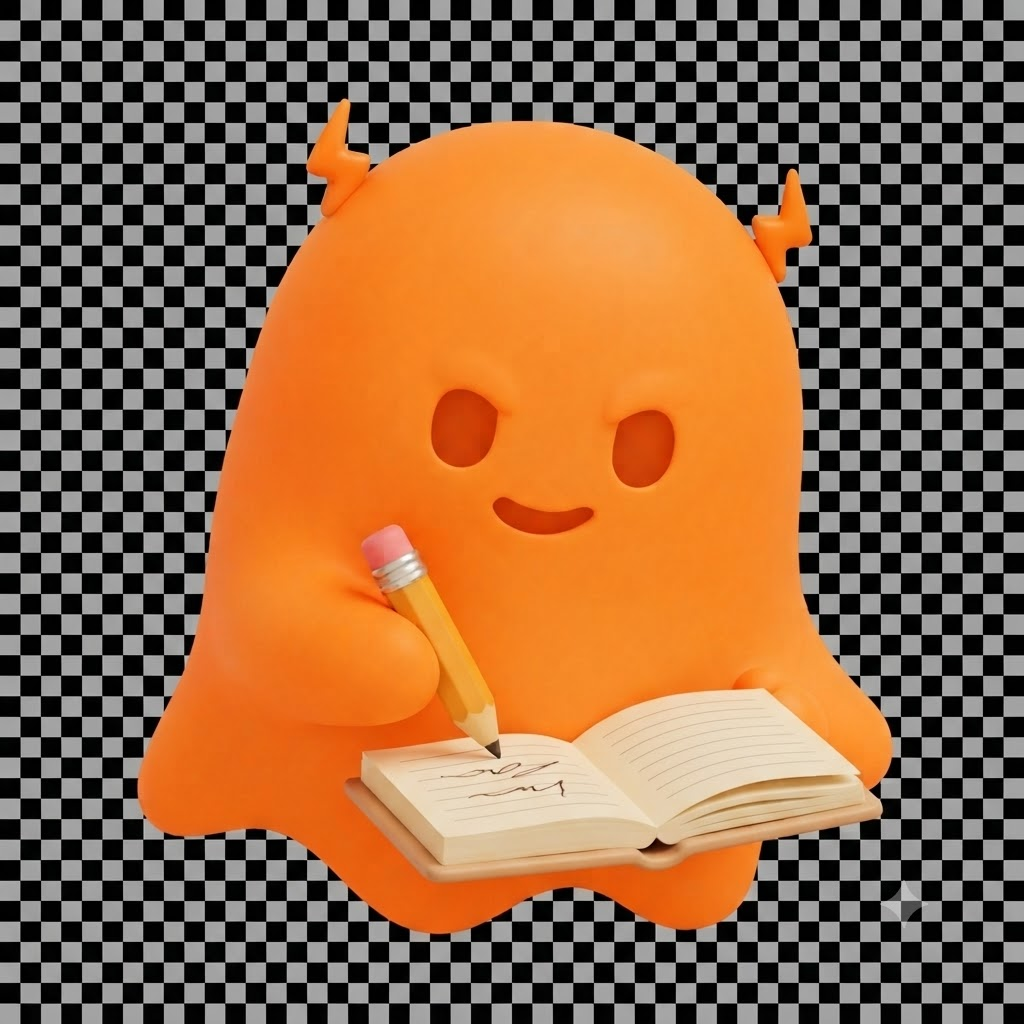
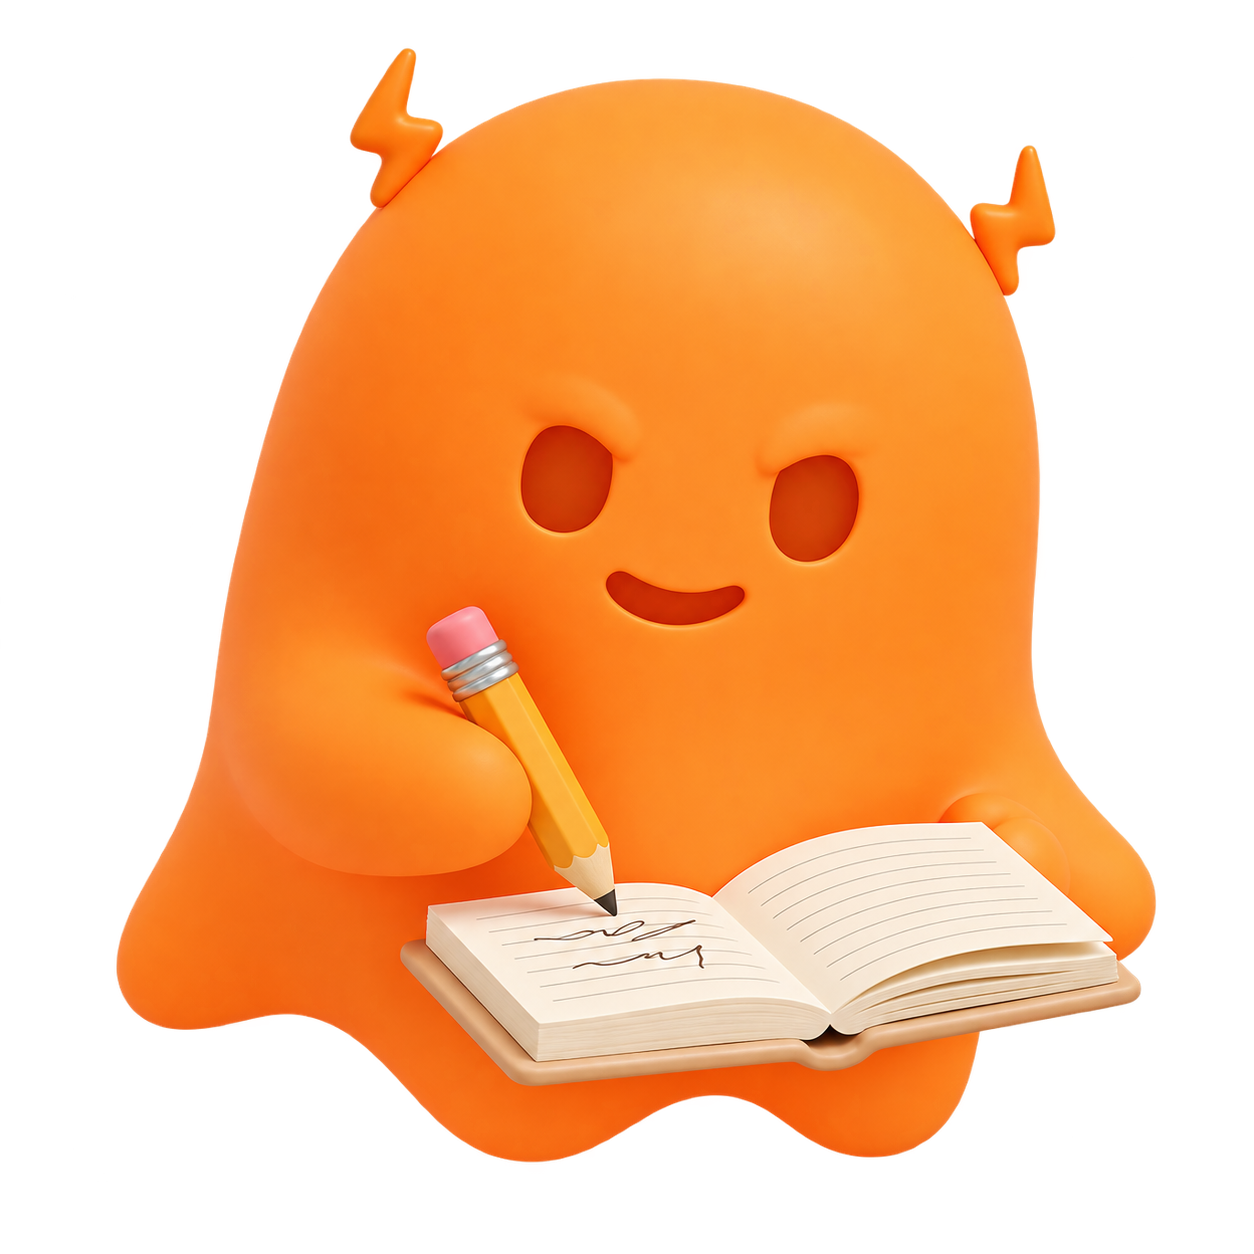
feat(frontend): 자료 삭제 버튼과 캐릭터·맵 2차 다듬기
- 업로드 화면: 올린 강의자료 개별 삭제(X) 버튼
- 말풍선 축소, 캐릭터 전 화면 확대, 랜딩 배경 원·캐릭터 확대,
  말풍선을 캐릭터 머리 위로
- 로딩 화면 캐릭터를 작업 중(progress) 이미지로 통일·확대
- progress/sad 캐릭터를 새 투명 배경 버전으로 교체
- 맵: 평소엔 숫자·상자만, STEP 제목 라벨은 호버 시에만 표시,
  진행 중이 아닌 원은 축소(52/48px)

diff --git a/frontend/app/curriculum/page.tsx b/frontend/app/curriculum/page.tsx
@@ -591,7 +591,7 @@ function MapCanvas({ steps, completedStepIds, currentStep, weakSteps, goalReache
             <div className="font-jua whitespace-nowrap rounded-[12px_12px_12px_3px] border border-[#FFE0C4] bg-white px-[13px] py-2 text-[13.5px] shadow-[0_4px_12px_rgba(0,0,0,.07)]">
               {characterMessage}
             </div>
-            <Ghost width={62} mood={goalReached ? "happy" : "default"} className="animate-bob drop-shadow-[0_8px_12px_rgba(255,122,0,.3)]" />
+            <Ghost width={78} mood={goalReached ? "happy" : "default"} className="animate-bob drop-shadow-[0_8px_12px_rgba(255,122,0,.3)]" />
           </div>
         </div>
       )}
@@ -627,17 +627,18 @@ function StepNode({
   isWeak: boolean;
   onNavigate: () => void;
 }) {
-  const size = isCurrent ? 84 : isDone ? 70 : 66;
+  // 지금 할 STEP 만 크게. 나머지는 길 위의 이정표 정도로 작게 둔다.
+  const size = isCurrent ? 84 : isDone ? 52 : 48;
   const left = x - size / 2;
   const top = y - size / 2 + PAD_TOP;
   // 라벨은 위·아래를 번갈아 놓아 촘촘한 구간에서 서로 겹치지 않게 한다.
-  const labelTop = labelAbove ? y - size / 2 - 58 + PAD_TOP : y + size / 2 + 10 + PAD_TOP;
+  const labelTop = labelAbove ? y - size / 2 - 56 + PAD_TOP : y + size / 2 + 8 + PAD_TOP;
 
   const weakRing = isWeak ? "ring-2 ring-amber-400 ring-offset-2" : "";
   const numberClass = "font-jua flex size-full items-center justify-center leading-none";
 
   return (
-    <div>
+    <div className="group">
       {isCurrent ? (
         <div className="absolute" style={{ left, top, width: size, height: size }}>
           <div className="absolute inset-[-10px] animate-pulse-ring rounded-full bg-[#FF7A00]" />
@@ -658,7 +659,7 @@ function StepNode({
           className={`absolute rounded-full ${weakRing} ${
             isDone
               ? "clay-done cursor-pointer"
-              : `clay-circle text-[21px] ${isLocked ? "cursor-default text-[#b9b9b9]" : "cursor-pointer text-[#8a6a4d]"}`
+              : `clay-circle text-[17px] ${isLocked ? "cursor-default text-[#b9b9b9]" : "cursor-pointer text-[#8a6a4d]"}`
           }`}
         >
           {isDone ? (
@@ -669,8 +670,9 @@ function StepNode({
         </button>
       )}
 
+      {/* 라벨은 평소에 숨긴다. 길에는 숫자와 상자만 보이고, 자세한 제목은 올려다볼 때만. */}
       <div
-        className={`absolute z-20 w-[150px] text-center text-[12.5px] ${
+        className={`pointer-events-none absolute z-20 w-[150px] text-center text-[12.5px] opacity-0 transition-opacity duration-150 group-hover:opacity-100 ${
           isCurrent ? "font-bold text-[#E85D00]" : isDone ? "font-bold text-[#888]" : "text-[#888]"
         }`}
         style={{ left: x, top: labelTop, transform: "translate(-50%, 0)" }}

diff --git a/frontend/app/upload/page.tsx b/frontend/app/upload/page.tsx
@@ -8,6 +8,7 @@ import { useSessionStore } from "@/app/_components/session-store";
 import { useExamStore } from "@/app/_components/store";
 import { useHydrated } from "@/app/_components/use-hydrated";
 import {
+  deleteDocument,
   listDocuments,
   parseDocuments,
   toMessage,
@@ -88,6 +89,21 @@ export default function UploadPage() {
       active = false;
     };
   }, [sessionCode]);
+
+  /** 올린 자료를 지운다. 목록은 서버 기준으로 다시 읽는다. */
+  const removeDocument = async (documentId: string) => {
+    if (!sessionCode || busy) return;
+    setBusy(true);
+    setError(null);
+    try {
+      await deleteDocument(sessionCode, documentId);
+      setDocuments(await listDocuments(sessionCode));
+    } catch (e) {
+      setError(toMessage(e));
+    } finally {
+      setBusy(false);
+    }
+  };
 
   const selectFiles = async (fileList: FileList | null) => {
     const files = Array.from(fileList ?? []);
@@ -232,6 +248,17 @@ export default function UploadPage() {
                       {doc.characterCount ? ` · ${doc.characterCount.toLocaleString()}자` : ""}
                     </div>
                   </div>
+                  <button
+                    type="button"
+                    disabled={busy}
+                    onClick={() => void removeDocument(doc.id)}
+                    aria-label={`${doc.originalFileName} 삭제`}
+                    className="flex size-8 shrink-0 cursor-pointer items-center justify-center rounded-full border border-transparent text-[#c9a888] transition-colors hover:border-[#F5C2C7] hover:bg-[#FDECEE] hover:text-[#B02A37] disabled:cursor-not-allowed disabled:opacity-40"
+                  >
+                    <svg width="13" height="13" viewBox="0 0 24 24" fill="none" aria-hidden="true">
+                      <path d="M5 5l14 14M19 5 5 19" stroke="currentColor" strokeWidth="2.6" strokeLinecap="round" />
+                    </svg>
+                  </button>
                 </div>
               ))}
             </div>
@@ -328,7 +355,7 @@ export default function UploadPage() {
                 목차가 있는 자료면 더 정확해!<br />
                 <span className="text-[#E85D00]">여러 개를 한 번에</span> 올려도 돼.
               </SpeechBubble>
-              <Ghost width={72} mood="plain" className="animate-bob-small" />
+              <Ghost width={96} className="animate-bob-small" />
             </div>
             <div className="rounded-[18px] border border-[#eee] p-5">
               <h2 className="mb-3 text-[13.5px] font-bold">분석할 내용</h2>

diff --git a/frontend/app/quiz/[stepId]/page.tsx b/frontend/app/quiz/[stepId]/page.tsx
@@ -215,7 +215,7 @@ function QuizView({
 
           {answered && (
             <div className="mt-6 flex flex-col items-start gap-4 border-t border-[#eee] pt-6 sm:flex-row sm:items-center">
-              <Ghost width={44} mood={result.correct ? "smile" : "sad"} className="animate-bob-small shrink-0" />
+              <Ghost width={60} mood={result.correct ? "smile" : "sad"} className="animate-bob-small shrink-0" />
               <div className="flex-1 text-[14.5px] leading-[1.7]">
                 {result.correct
                   ? `정답! ${result.explanation}`
@@ -261,7 +261,7 @@ function QuizLoading({ generating = false }: { generating?: boolean }) {
 
         {generating && (
           <div className="absolute inset-0 flex flex-col items-center justify-center gap-4">
-            <Ghost width={104} mood="progress" className="animate-bob" />
+            <Ghost width={140} mood="progress" className="animate-bob" />
             <p className="rounded-full border border-[#FFE0C4] bg-white/90 px-5 py-2 text-sm font-bold text-[#E85D00] shadow-[0_6px_18px_rgba(255,122,0,.15)]">
               자료를 보고 문제를 만드는 중… 30초쯤 걸려요
             </p>
@@ -278,7 +278,7 @@ function QuizError({ stepId, message, onRetry }: { stepId: number; message: stri
     <div className="min-h-screen bg-white text-[#222]">
       <AppHeader />
       <main className="mx-auto max-w-[720px] px-6 py-24 text-center">
-        <Ghost width={70} mood="worried" className="animate-bob-small mx-auto mb-5" />
+        <Ghost width={92} mood="sad" className="animate-bob-small mx-auto mb-5" />
         <h1 className="font-jua mb-3 text-3xl">퀴즈를 준비하지 못했어요</h1>
         <p className="mb-8 text-[14.5px] leading-7 text-[#888]">{message}</p>
         <div className="flex flex-wrap justify-center gap-3">
@@ -296,7 +296,7 @@ function EmptyQuiz({ stepId }: { stepId: number }) {
     <div className="min-h-screen bg-white text-[#222]">
       <AppHeader />
       <main className="mx-auto max-w-[720px] px-6 py-24 text-center">
-        <Ghost width={70} mood="worried" className="animate-bob-small mx-auto mb-5" />
+        <Ghost width={92} className="animate-bob-small mx-auto mb-5" />
         <h1 className="font-jua mb-3 text-3xl">이 STEP은 퀴즈가 없어요</h1>
         <p className="mb-8 text-[14.5px] leading-7 text-[#888]">복습 단계이거나 아직 학습을 마치지 않은 단계입니다.</p>
         <PrimaryButton onClick={() => router.push(`/study/${stepId}`)}>학습 화면으로 돌아가기</PrimaryButton>

diff --git a/frontend/app/quiz-result/[stepId]/page.tsx b/frontend/app/quiz-result/[stepId]/page.tsx
@@ -95,7 +95,7 @@ export default function QuizResultPage() {
       <div className="min-h-screen bg-white text-[#222]">
         <AppHeader />
         <main className="mx-auto max-w-[720px] px-6 py-24 text-center">
-          <Ghost width={70} mood="sad" className="animate-bob-small mx-auto mb-5" />
+          <Ghost width={92} mood="sad" className="animate-bob-small mx-auto mb-5" />
           <h1 className="font-jua mb-3 text-3xl">결과를 불러오지 못했어요</h1>
           <p className="mb-8 text-[14.5px] leading-7 text-[#888]">{error}</p>
           <PrimaryButton onClick={() => router.push("/curriculum")}>커리큘럼으로 돌아가기</PrimaryButton>
@@ -124,7 +124,7 @@ export default function QuizResultPage() {
       <AppHeader />
       <main className="mx-auto max-w-[900px] px-6 pb-24 pt-[52px] sm:px-10">
         <section className="mb-6 flex flex-col items-center gap-6 rounded-[22px] border border-[#FFE0C4] bg-[#FFF3E8] p-7 text-center sm:flex-row sm:gap-8 sm:p-9 sm:text-left">
-          <Ghost width={104} mood={passed ? "happy" : "sad"} className="animate-bob shrink-0 drop-shadow-[0_12px_18px_rgba(255,122,0,.22)]" />
+          <Ghost width={128} mood={passed ? "happy" : "sad"} className="animate-bob shrink-0 drop-shadow-[0_12px_18px_rgba(255,122,0,.22)]" />
           <div>
             {passed && <div className="mb-2 inline-block rounded-full bg-[#FF7A00] px-3 py-1 text-xs font-bold text-white">STEP {stepId} 완료!</div>}
             <div className="mb-[9px] text-[13px] font-bold text-[#E85D00]">STEP {stepId} 퀴즈 결과</div>
@@ -203,7 +203,7 @@ function ResultLoading() {
     <div className="min-h-screen bg-white text-[#222]">
       <AppHeader />
       <main className="mx-auto flex max-w-[900px] items-center justify-center px-10 py-24">
-        <Ghost width={80} mood="plain" className="animate-bob" />
+        <Ghost width={116} mood="progress" className="animate-bob" />
         <span className="ml-4 text-sm text-[#888]">결과 불러오는 중…</span>
       </main>
     </div>

diff --git a/frontend/app/study/[stepId]/page.tsx b/frontend/app/study/[stepId]/page.tsx
@@ -103,7 +103,7 @@ export default function StudyPage() {
       <div className="min-h-screen bg-white text-[#222]">
         <AppHeader />
         <main className="mx-auto flex max-w-[720px] flex-col items-center px-6 py-24 text-center">
-          <Ghost width={78} mood="worried" className="animate-bob-small mb-6" />
+          <Ghost width={96} mood="sad" className="animate-bob-small mb-6" />
           <div className="mb-3 rounded-full bg-amber-50 px-3 py-1.5 text-xs font-bold text-amber-700">STEP {stepId} 제외</div>
           <h1 className="font-jua mb-3 text-3xl">이 STEP은 플랜에서 제외됐어요</h1>
           <p className="mb-8 text-[14.5px] leading-7 text-[#888]">남은 시간에 맞춰 우선순위가 높은 개념부터 학습하도록 조정했어요.</p>
@@ -299,7 +299,7 @@ function StudyView({
             <div className="mt-3.5 border-t border-[#eee] pt-3.5 text-[12.5px] leading-[1.7] text-[#888]">{content.summary}</div>
           </div>
           <div className="rounded-2xl border border-[#eee] p-5 text-center">
-            <Ghost width={52} mood={completedSteps.includes(stepId) ? "happy" : "neutral"} className="animate-bob-small mx-auto opacity-90" />
+            <Ghost width={68} mood={completedSteps.includes(stepId) ? "happy" : "default"} className="animate-bob-small mx-auto opacity-90" />
             <p className="mt-2.5 text-[13px] leading-[1.65]">{content.characterComment}</p>
           </div>
         </aside>

diff --git a/frontend/app/page.tsx b/frontend/app/page.tsx
@@ -136,14 +136,14 @@ export default function HomePage() {
             )}
           </div>
 
-          <div className="relative flex h-[340px] items-center justify-center md:h-[380px]">
-            <div className="absolute size-[260px] rounded-full bg-[#FFF3E8] sm:size-[300px]" />
-            <SpeechBubble tail="bottom-left" className="font-jua absolute right-0 top-2 z-10">
+          {/* 말풍선은 항상 캐릭터 머리 위에 둔다. 배경 원은 캐릭터보다 넉넉히 크게. */}
+          <div className="relative flex h-[400px] flex-col items-center justify-center gap-3 md:h-[460px]">
+            <div className="absolute size-[330px] rounded-full bg-[#FFF3E8] sm:size-[400px]" />
+            <SpeechBubble tail="bottom-left" className="font-jua relative z-10">
               아직 안 늦었어!
             </SpeechBubble>
             <Ghost
-              width={190}
-              mood="plain"
+              width={250}
               className="animate-bob relative drop-shadow-[0_14px_22px_rgba(255,122,0,.25)]"
             />
           </div>

diff --git a/frontend/app/_components/ui.tsx b/frontend/app/_components/ui.tsx
@@ -303,13 +303,13 @@ export function SpeechBubble({
 
   return (
     <div
-      className={`relative inline-block rounded-[18px] border-2 border-[#FFD3A8] bg-white px-[22px] py-4 text-[19px] font-bold leading-[1.5] tracking-[-.3px] text-[#222] shadow-[0_6px_20px_rgba(255,122,0,.16)] sm:text-[21px] ${className}`}
+      className={`relative inline-block rounded-[16px] border-2 border-[#FFD3A8] bg-white px-4 py-2.5 text-[14.5px] font-bold leading-[1.5] tracking-[-.2px] text-[#222] shadow-[0_5px_16px_rgba(255,122,0,.15)] sm:text-[15.5px] ${className}`}
     >
       {children}
       {/* 테두리와 배경을 각각 찍어 꼬리에도 선이 이어지게 한다. */}
       <span
         aria-hidden="true"
-        className={`absolute size-[18px] rotate-45 border-b-2 border-r-2 border-[#FFD3A8] bg-white ${tailPosition}`}
+        className={`absolute size-[13px] rotate-45 border-b-2 border-r-2 border-[#FFD3A8] bg-white ${tailPosition}`}
         style={tail === "left" ? { transform: "rotate(135deg)" } : undefined}
       />
     </div>

diff --git a/frontend/app/analysis/page.tsx b/frontend/app/analysis/page.tsx
@@ -147,7 +147,7 @@ export default function AnalysisPage() {
         <FlowSteps current={2} />
         <section className="rounded-[22px] border border-[#FFE0C4] bg-[linear-gradient(180deg,#FFFDFB,#FFF3E8)] px-6 py-12 text-center sm:px-12">
           <div className="relative mx-auto mb-7 w-fit">
-            <Ghost width={132} mood={mood} className={running ? "animate-bob" : undefined} />
+            <Ghost width={168} mood={mood} className={running ? "animate-bob" : undefined} />
           </div>
           <div className="mb-2.5 text-[13px] font-bold text-[#E85D00]">AI 자료 분석</div>
           <h1 className="font-jua mb-3 text-[34px] tracking-[-1px] sm:text-[40px]">{heading}</h1>

diff --git a/frontend/app/exam-info/page.tsx b/frontend/app/exam-info/page.tsx
@@ -265,7 +265,7 @@ export default function ExamInfoPage() {
                 범위가 넓네…<br />
                 그래도 <span className="text-[#E85D00]">중요한 것부터</span> 짜볼게!
               </SpeechBubble>
-              <Ghost width={72} mood="worried" className="animate-bob-small" />
+              <Ghost width={96} className="animate-bob-small" />
             </div>
           </aside>
         </div>
